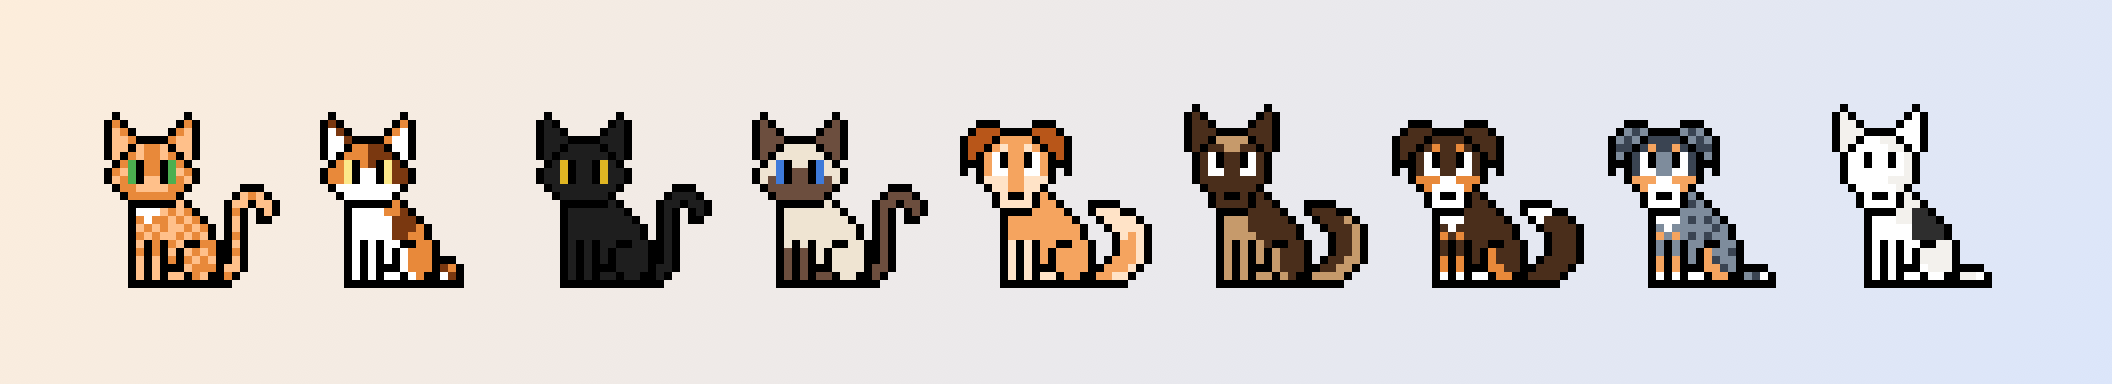
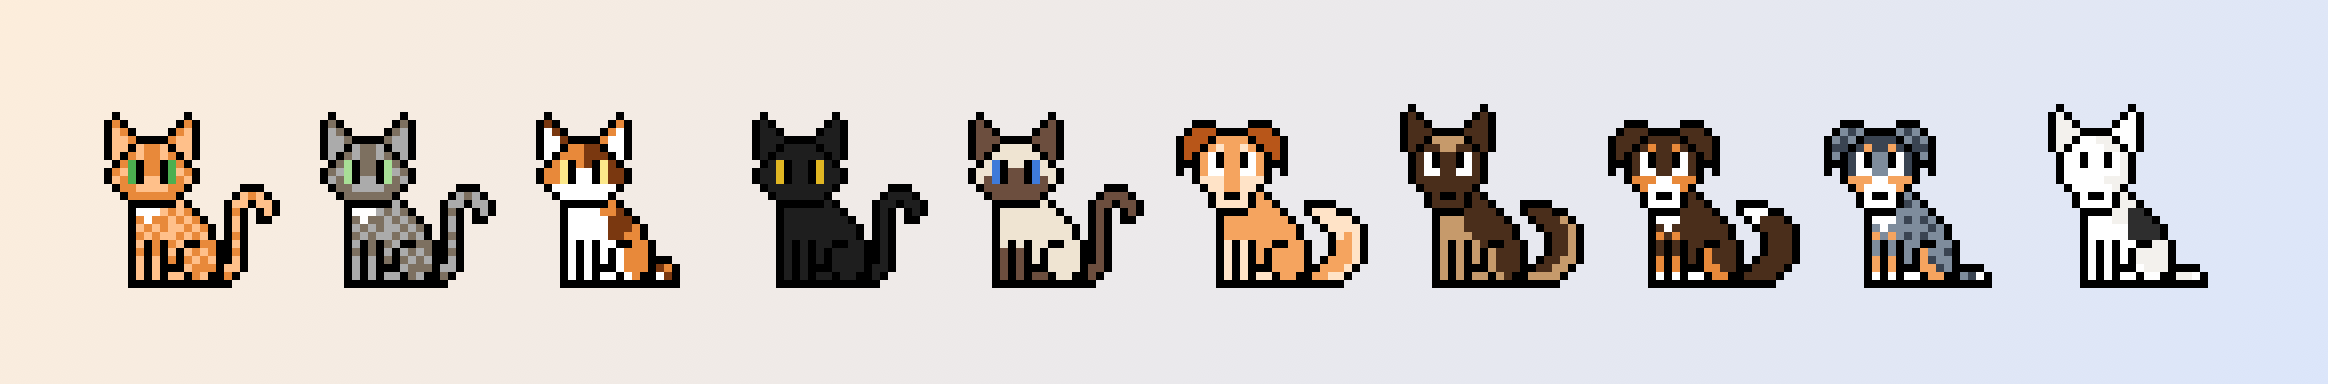
Screenshots: add Topsy back to the pet lineup, second

Changed region(s): [[0.0312, 0.2812, 0.9688, 0.75]]

diff --git a/CLAUDE.md b/CLAUDE.md
@@ -46,7 +46,7 @@ The agent has no Screen Recording permission, so the app has test launch argumen
   - `~/Library/Application Support/DesktopPet/Clipboard/`
 - Only write defaults (`defaults write com.nataliewiese.DesktopPet …`) while the app is **not running**, or the running app overwrites them.
 - Her current settings: Military time **off** (as of 2026-10-07; check before assuming).
-- Topsy's look (as of 2026-10-12). She was the first pet in `screenshots/pets.png` until an orange tabby replaced her. Put her back after changing pets for screenshots:
+- Topsy's look (as of 2026-10-12). She's the second pet in `screenshots/pets.png`, after the orange tabby. Put her back after changing pets for screenshots:
   - name `Topsy`, scale `4`
   - `character` and `character.cat` = `tortie.up-long` (cat, shape 1/4 "up-long", tortie pattern); `character.dog` = `dog.down-long`
   - `color.main` = `7D6F60` (grey-brown body), `color.secondary` = `ABABAB` (grey accents), `color.detail` = `A8DE96` (light green eyes), `color.ears` = `7A4E2E` (dog ears)
